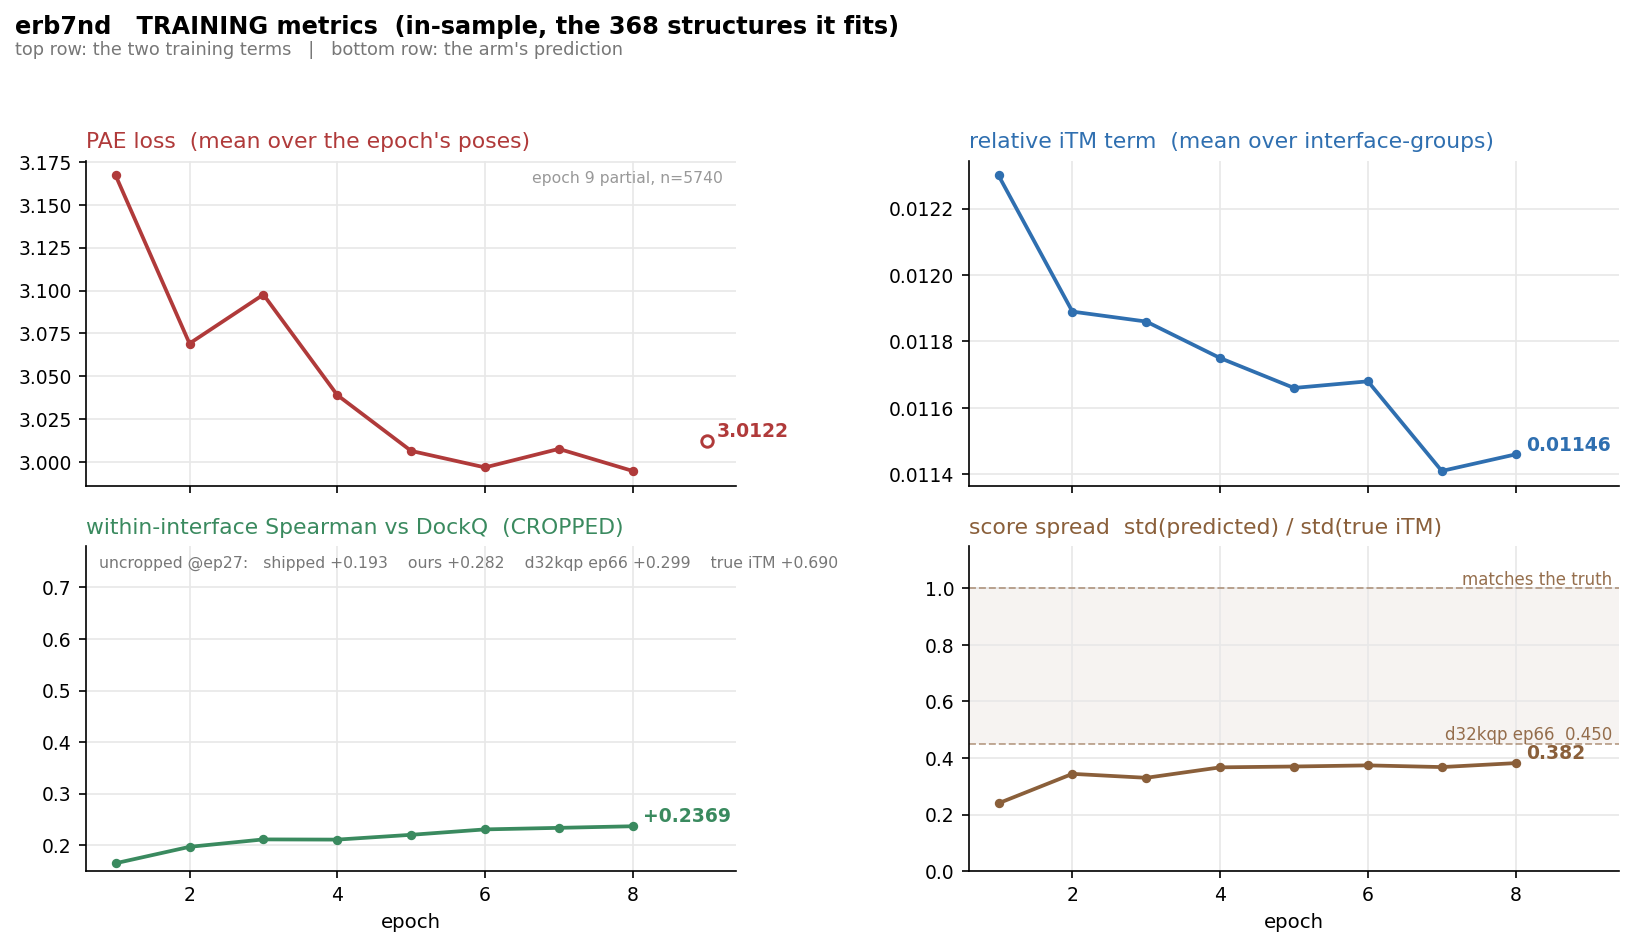
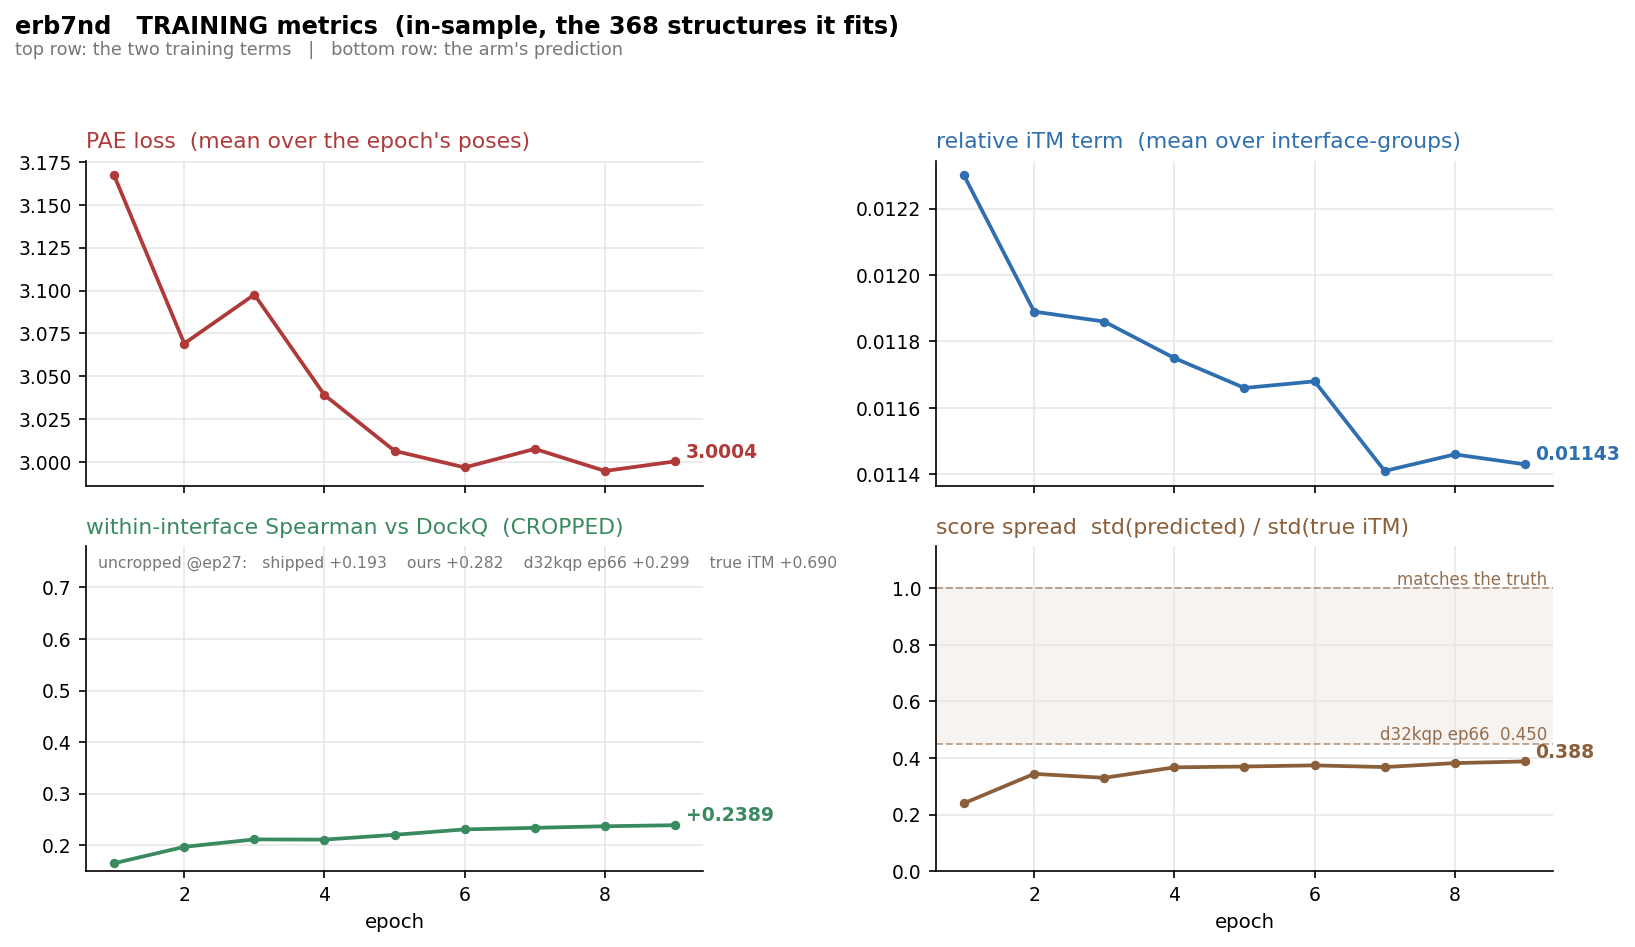
paper_results §13: label-free predicted cropping recovers nothing, plus erb7nd epoch 9
The cheap test of the predicted-interface idea came back negative. Four eval passes on the same
epoch-30 cropped checkpoint, OURS and SHIPPED scored on the IDENTICAL label-free crop, 92
interfaces: 5 A MEAN -0.0104, MAX +0.0058; 2.5 A MEAN -0.0042, MAX -0.0016. Section 9b's
ground-truth crop gave +0.0226 / +0.0376 from the same checkpoint. The gain needed the
ground-truth crop specifically.

It is not a size or coverage problem, which is the part worth keeping: at a 2.5 A margin the
predicted union crop is 57% of the structure against the ground-truth crop's 51%, keeps every true
interface token on all 53 structures measured, and retains 72% of the ground-truth crop's tokens.
Right size, right region, no recovery.

What did transfer is ordering, not selection -- rho beats shipped at both margins under both
poolings while selected DockQ does not follow. That is the §12 dissociation a third time, on a
third crop regime.

predcrop_compare.py exists because the only valid control is the shipped head on the SAME crop,
not the stored uncropped ipTM that `baseline_mean_dockq` reports; the two differ by the crop
itself. It pairs on interface and refuses if the passes do not cover the same poses.

Also: erb7nd epoch 9 landed. PAE 3.0004, rel 0.01143, rho all +0.2389, sd_ratio 0.388, dMEAN
+0.0048 (t +1.16). rho top -0.1356 against shipped -0.0607 -- still negative, still worse than
shipped, no trend toward zero over nine epochs. §12's tables and limits now read through epoch 9.
[…]

diff --git a/extra_training/run_logging/predcrop_compare.py b/extra_training/run_logging/predcrop_compare.py
@@ -1,0 +1,95 @@
+#!/usr/bin/env python
+"""OURS vs SHIPPED on the SAME label-free crop, paired per interface.
+
+WHY THIS EXISTS. The predicted-interface eval ran four passes: {ours, shipped} x {5 A, 2.5 A}.
+The only control that isolates the head is the SHIPPED head scored on the IDENTICAL crop -- not
+the stored uncropped ipTM, which differs from both by the crop itself. Quoting `baseline_mean_dockq`
+from a cropped pass would silently compare across two different scoring inputs.
+
+Pairs on iface, so the t statistic is over the 92 interfaces both passes scored. Refuses if the
+two passes do not cover the same interfaces or the same pose set, because a partial shard would
+otherwise read as a head difference.
+
+    python -I run_logging/predcrop_compare.py training/runs/predcrop_eval 5 2.5
+"""
+import csv, glob, math, os, statistics as st, sys
+from collections import defaultdict
+
+
+def load(d):
+    fs = sorted(glob.glob(os.path.join(d, "rows_b30_*.csv")))
+    if not fs:
+        raise SystemExit(f"STOP: no rows_b30_*.csv under {d}")
+    by = defaultdict(dict)
+    for f in fs:
+        with open(f) as fh:
+            for r in csv.DictReader(fh):
+                key = (r["seed"], r["sample"])
+                if key in by[r["iface"]]:
+                    raise SystemExit(f"STOP: duplicate pose {r['iface']} {key} in {d}")
+                by[r["iface"]][key] = (float(r["iptm"]), float(r["iptm_mean"]),
+                                       float(r["dockq"]), float(r["stored_iptm"]))
+    return by
+
+
+def spearman(xs, ys):
+    def ranks(v):
+        o = sorted(range(len(v)), key=lambda i: v[i])
+        out = [0.0] * len(v)
+        i = 0
+        while i < len(o):
+            j = i
+            while j + 1 < len(o) and v[o[j + 1]] == v[o[i]]:
+                j += 1
+            for k in range(i, j + 1):
+                out[o[k]] = (i + j) / 2 + 1
+            i = j + 1
+        return out
+    rx, ry = ranks(xs), ranks(ys)
+    n = len(xs)
+    mx, my = sum(rx) / n, sum(ry) / n
+    num = sum((a - mx) * (b - my) for a, b in zip(rx, ry))
+    den = math.sqrt(sum((a - mx) ** 2 for a in rx) * sum((b - my) ** 2 for b in ry))
+    return num / den if den else float("nan")
+
+
+def paired_t(d):
+    n = len(d)
+    m = sum(d) / n
+    if n < 2:
+        return m, float("nan")
+    s = st.stdev(d)
+    return m, (m / (s / math.sqrt(n)) if s > 0 else float("nan"))
+
+
+root = sys.argv[1] if len(sys.argv) > 1 else "training/runs/predcrop_eval"
+margins = sys.argv[2:] or ["5", "2.5"]
+
+print(f"  OURS vs SHIPPED on the same label-free union crop, paired per interface")
+print(f"  {'margin':>7} {'pooling':>8} {'ours':>8} {'shipped':>8} {'delta':>8} {'t':>7}"
+      f" {'rho ours':>9} {'rho ship':>9} {'d rho':>8} {'t':>7}")
+for mg in margins:
+    o = load(os.path.join(root, f"ours_m{mg}"))
+    s = load(os.path.join(root, f"shipped_m{mg}"))
+    ifs = sorted(set(o) & set(s))
+    if set(o) != set(s):
+        raise SystemExit(f"STOP: margin {mg} interface sets differ "
+                         f"(ours {len(o)}, shipped {len(s)}, shared {len(ifs)})")
+    for pool, idx in (("MEAN", 1), ("MAX", 0)):
+        do, ds, ro, rs = [], [], [], []
+        for i in ifs:
+            po, ps = o[i], s[i]
+            if set(po) != set(ps):
+                raise SystemExit(f"STOP: {i} at margin {mg} has different pose sets")
+            ks = sorted(po)
+            do.append(max((po[k][idx], po[k][2]) for k in ks)[1])
+            ds.append(max((ps[k][idx], ps[k][2]) for k in ks)[1])
+            dq = [po[k][2] for k in ks]
+            ro.append(spearman([po[k][idx] for k in ks], dq))
+            rs.append(spearman([ps[k][idx] for k in ks], dq))
+        md, t = paired_t([a - b for a, b in zip(do, ds)])
+        mr, tr = paired_t([a - b for a, b in zip(ro, rs)])
+        print(f"  {mg+' A':>7} {pool:>8} {sum(do)/len(do):8.4f} {sum(ds)/len(ds):8.4f}"
+              f" {md:+8.4f} {t:+7.2f} {st.median(ro):+9.4f} {st.median(rs):+9.4f}"
+              f" {mr:+8.4f} {tr:+7.2f}")
+    print(f"          n={len(ifs)} interface(s), {len(o[ifs[0]])} pose(s) each")

diff --git a/extra_training/paper_results.md b/extra_training/paper_results.md
@@ -655,13 +655,17 @@ at ALL SEVEN epochs -- one interface of 92, never moving, carrying no informatio
 | 4 | ours, MEAN | +0.2230 | -0.1381 | 66.5/150 | 4.35% | 6.5% |
 | 7 | ours, MEAN | +0.2334 | -0.1133 | 70.0/150 | 2.17% | 4.3% |
 | 7 | ours, MAX | +0.2509 | -0.1352 | 68.0/150 | 0.00% | 3.3% |
+| 8 | ours, MEAN | +0.2370 | -0.1191 | 76.0/150 | 1.09% | 4.3% |
+| 9 | ours, MEAN | +0.2321 | -0.1356 | 73.0/150 | 1.09% | 4.3% |
+| 9 | ours, MAX | +0.2294 | -0.1501 | 70.0/150 | 0.00% | 3.3% |
 | -- | shipped ipTM | +0.1709 | -0.0607 | 68.8/150 | 0.00% | 3.3% |
 
 Random picks the best pose 0.7% of the time and puts it in its top 5 3.3%.
 
-**Ordering over all 150 candidates improved and stayed above shipped: +0.2074 -> +0.2334 against
-shipped's +0.1709. Ordering over the ten poses worth picking is NEGATIVE at every epoch and WORSE
-than shipped at every epoch: -0.1133 against -0.0607 at epoch 7.** The gain is in separating bad
+**Ordering over all 150 candidates improved and stayed above shipped: +0.2074 -> +0.2321 at
+epoch 9 against shipped's +0.1709. Ordering over the ten poses worth picking is NEGATIVE at every
+epoch and WORSE than shipped at every epoch: -0.1356 against -0.0607 at epoch 9, and it has not
+trended toward zero over nine epochs.** The gain is in separating bad
 poses from other bad poses. Selection reads only the top, which is why dMEAN peaked at epoch 4 and
 decayed for three straight epochs back to its epoch-2 level.
 
@@ -692,5 +696,82 @@ it does not move mean DockQ, which is what section 1's target is stated in.
 - MAX pooling is the readout nothing optimises and it crossed above MEAN on selected DockQ at
   epoch 6 (+0.0040 against +0.0024). Two readouts trading places is further evidence that neither
   selection number carries signal at this sample size.
-- Training-side health is not in question: PAE 3.1671 -> 3.0077, the rel term monotone
-  0.01230 -> 0.01141, sd_ratio 0.240 -> 0.368 and still widening, so no margin collapse.
+- Training-side health is not in question: PAE 3.1671 -> 3.0004, the rel term 0.01230 -> 0.01143,
+  sd_ratio 0.240 -> 0.388 and still widening, so no margin collapse. Through epoch 9 the arm is
+  training cleanly and the gain is still in the wrong place.
+
+## 13. LABEL-FREE PREDICTED-INTERFACE CROPPING RECOVERS NOTHING. Section 9b needed the ground-truth crop specifically
+
+Section 9b's +0.0376 (MAX) was measured with a crop built from the TRUE structure, so it is not a
+deployable number. The question this section answers: does the gain survive when the crop is built
+from the model's OWN predicted poses, using no labels at all?
+
+**It does not.** Four eval passes, same epoch-30 cropped checkpoint (`t4jtjr/head_ep30_step3660.pt`),
+92 interfaces, 150 candidates each, OURS and SHIPPED scored on the IDENTICAL crop:
+
+| margin | pooling | ours | shipped | delta | t | rho ours | rho shipped | d rho | t |
+|--------|---------|------|---------|-------|---|----------|-------------|-------|---|
+| 5 A | MEAN | 0.5745 | 0.5848 | **-0.0104** | -0.98 | +0.2597 | +0.2351 | +0.0123 | +0.44 |
+| 5 A | MAX | 0.5889 | 0.5831 | **+0.0058** | +1.25 | +0.2997 | +0.1955 | +0.0266 | +1.06 |
+| 2.5 A | MEAN | 0.5813 | 0.5855 | **-0.0042** | -0.80 | +0.2523 | +0.2313 | +0.0068 | +0.25 |
+| 2.5 A | MAX | 0.5837 | 0.5853 | **-0.0016** | -0.29 | +0.2786 | +0.1969 | +0.0405 | +1.64 |
+
+Reference, SAME checkpoint, GROUND-TRUTH crop (section 9b): MEAN **+0.0226**, MAX **+0.0376**.
+
+The control that matters is the shipped head on the same crop, NOT `baseline_mean_dockq` (the
+stored uncropped ipTM, 0.5831), which differs from both arms by the crop itself. Computed by
+`run_logging/predcrop_compare.py`, which refuses if the two passes do not cover the same
+interfaces and the same pose set.
+
+### IT IS NOT A SIZE PROBLEM, AND NOT A COVERAGE PROBLEM
+
+The obvious explanation -- the label-free crop is too loose, so the arm never sees the regime it was
+trained in -- is measurable and false:
+
+| crop | tokens kept, median | recall of GT-crop tokens | interface coverage |
+|------|---------------------|--------------------------|--------------------|
+| ground-truth (section 9b) | 51.0% | 1.0000 | 1.0000 |
+| predicted union, 5 A margin | 74.4% | 0.8873 | 1.0000 |
+| predicted union, 2.5 A margin | 57.1% | 0.7248 | 1.0000 (p10 0.9359) |
+
+At 2.5 A the crop is 57% of the structure against the ground-truth crop's 51%, it keeps every true
+interface token on every one of the 53 structures measured, and it still recovers nothing. The crop
+is the right SIZE and contains the right REGION; what it does not reproduce is the ground-truth
+crop's exact token set.
+
+### WHAT DID TRANSFER: ORDERING, NOT SELECTION
+
+`rho` beats shipped at both margins and under both poolings (+0.0068 to +0.0405). Selected DockQ
+does not follow. **This is the section 12 dissociation for the third time, now on a third crop
+regime.** Ranking quality is portable across crops; the top of the ranking is not.
+
+### CONSTRUCTION, SO THIS IS REPRODUCIBLE
+
+`run_logging/build_union_crop_masks.py` writes one boolean token mask per structure: for each of
+the 150 candidate poses, take the tokens within 5 A of a cross-chain contact, expand by the margin,
+then UNION over all poses. One shared crop per structure, so every candidate is scored by the same
+ipTM `d0` and the scores stay comparable -- a per-pose crop was ruled out for exactly this reason
+(`d0` measured moving 3.00 -> 4.81 A within one interface, changing the TM weight at 8 A from 0.123
+to 0.266). The mask carries a `__meta` record: margin, contact threshold, seed range, budget,
+nsample, pool/trunk/label paths, the unit SHA digest (`22d4c9246e51d750`) and the builder commit.
+`--verify-rule` asserts bit-identity against `BC.interface_crop_tokens` on all 53 structures.
+`phase_k_eval.py --crop-tokens` consumes it; `--crop-tokens` and `--crop-margin` are mutually
+exclusive at parse time.
+
+### HONEST LIMITS
+
+- No t clears 2. The claim is "no recovery", which the three negative/near-zero deltas support
+  jointly; no single one is significant.
+- Interface coverage is seeded from labels. It is a DIAGNOSTIC of a label-free crop, not part of
+  the crop rule -- the mask itself reads only predicted coordinates.
+- `9y7n` sits at 0.6000 interface coverage at EVERY margin including 10 A. That is not a crop
+  failure: across 500 poses its best DockQ is 0.0540, so no pose goes near the true epitope and
+  there is nothing for a predicted crop to find.
+- Margin was fixed by one rule and reported on both pools, because the margin that matches the
+  ground-truth crop SIZE differs between them (valfull 2.5 A -> 57.1%; train 2.5 A -> 41.4%).
+
+### WHAT THIS CLOSES
+
+Predicted-interface cropping is not worth retraining on. The cheap test was run precisely to avoid
+that cost, and it came back negative. Section 9b's gain is not recoverable without labels, which
+means it is not a result we can ship.
